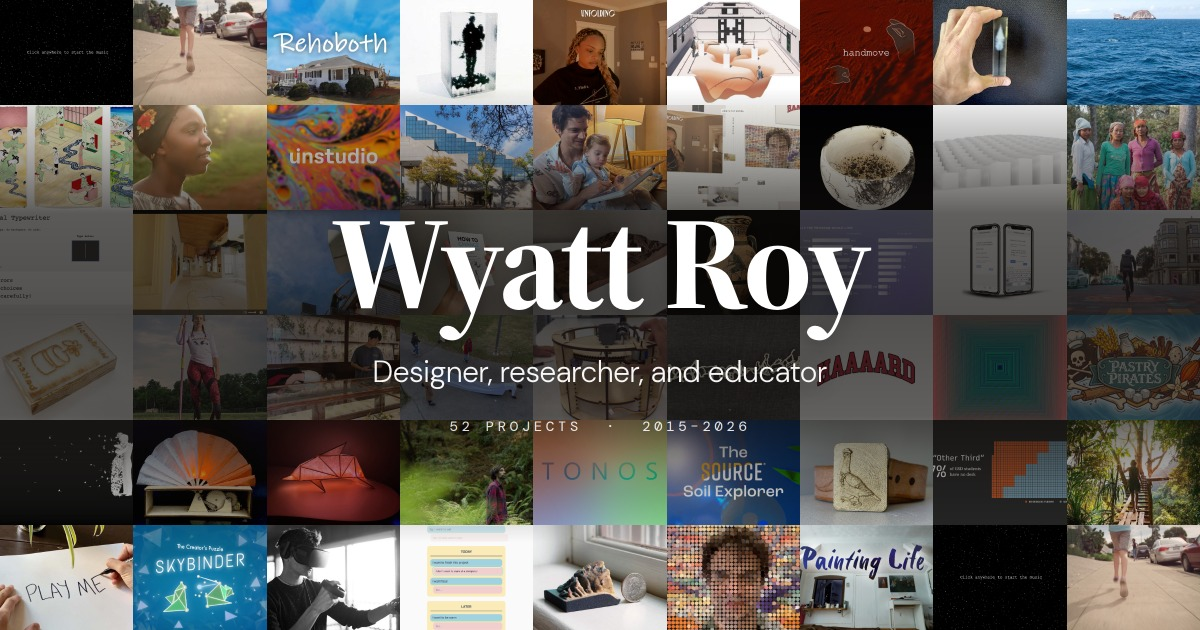
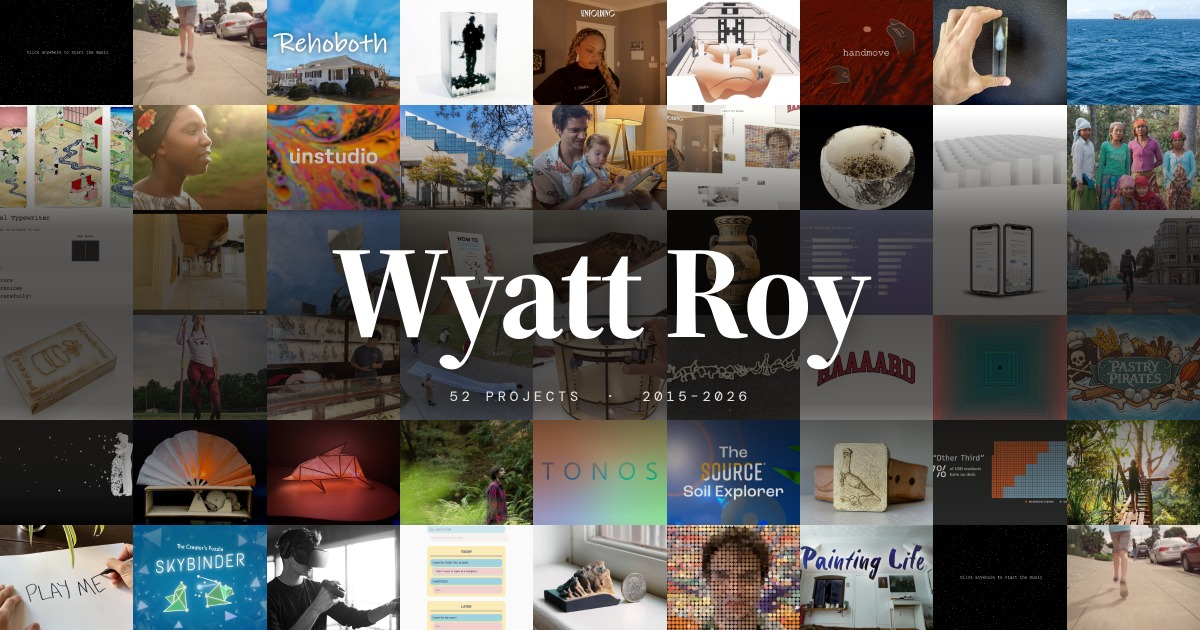
Drop the descriptor line from the preview image
Leaves the name and the project count over the mosaic. With the lockup
about 60px shorter the scrim narrows too, so two more rows of thumbnails
sit at full brightness. Alt text on both pages no longer describes a line
that isn't there.

Claude-Session: https://claude.ai/code/session_01P6wGxzv3EG9qPBrKSB4tYK

diff --git a/about.html b/about.html
@@ -13,7 +13,7 @@
   <meta property="og:image" content="https://wyattroy.com/assets/og/preview.jpg">
   <meta property="og:image:width" content="1200">
   <meta property="og:image:height" content="630">
-  <meta property="og:image:alt" content="A grid of 52 project thumbnails with Wyatt Roy, designer, researcher, and educator, in white across the middle.">
+  <meta property="og:image:alt" content="A grid of 52 project thumbnails with the name Wyatt Roy in white across the middle.">
   <meta name="twitter:card" content="summary_large_image">
   <meta name="twitter:title" content="About — Wyatt Roy">
   <meta name="twitter:description" content="Designer, researcher, and educator working at the intersection of technology, narrative, and institutional change.">

diff --git a/index.html b/index.html
@@ -12,7 +12,7 @@
   <meta property="og:image" content="https://wyattroy.com/assets/og/preview.jpg">
   <meta property="og:image:width" content="1200">
   <meta property="og:image:height" content="630">
-  <meta property="og:image:alt" content="A grid of 52 project thumbnails with Wyatt Roy, designer, researcher, and educator, in white across the middle.">
+  <meta property="og:image:alt" content="A grid of 52 project thumbnails with the name Wyatt Roy in white across the middle.">
   <meta name="twitter:card" content="summary_large_image">
   <meta name="twitter:title" content="Wyatt Roy">
   <meta name="twitter:description" content="Designer, researcher, and educator working at the intersection of technology, narrative, and institutional change.">
